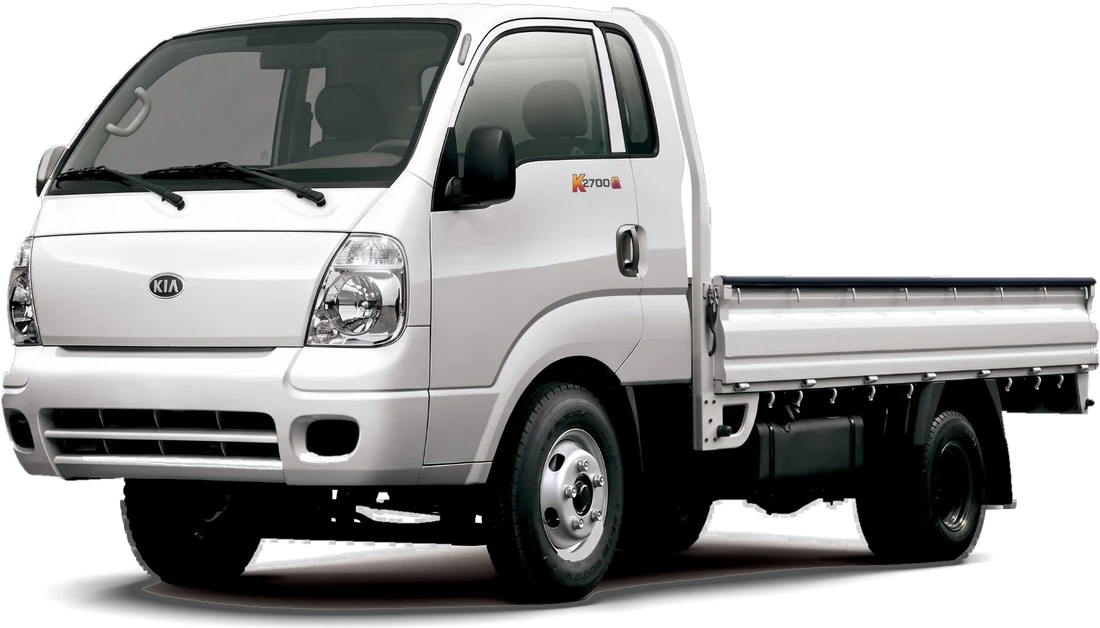
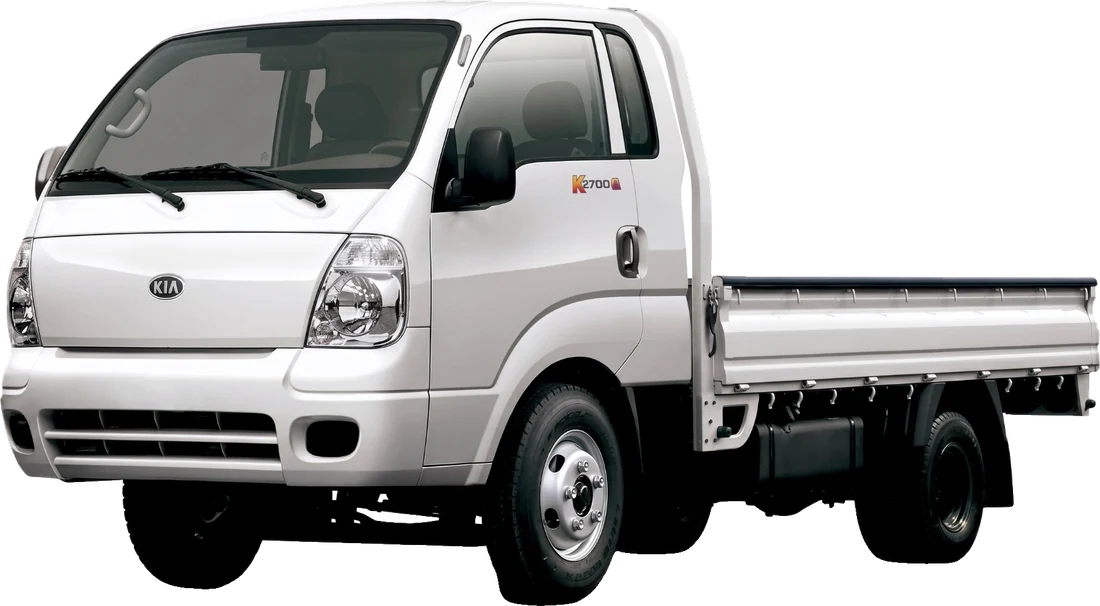
fix(vehicles): lab vehicles re-cut without baked floor shadows, sized by height so they rise out of the card beside the code (smaller code for long vehicles), soft fading ground shadow, cut-bottom photos tucked behind the spec strip

diff --git a/src/components/vehicles/VehicleLab.tsx b/src/components/vehicles/VehicleLab.tsx
@@ -1,5 +1,5 @@
 /* eslint-disable i18next/no-literal-string */
-import React, { useMemo, useRef, useState } from 'react';
+import React, { useEffect, useMemo, useRef, useState } from 'react';
 import { Building2, CalendarDays, ChevronLeft, ChevronRight, ClipboardList, Fuel, LineChart, Loader2, RefreshCw, UserRound, Users } from 'lucide-react';
 import { useSyncedStorage } from '../../lib/useSyncedStorage';
 import {
@@ -82,7 +82,10 @@ const GLASS_BOTTOM = 11.28;
 const GLASS_HEIGHT = 71.27;
 
 /** حجم رقم العربة الكبير حسب طوله حتى لا يخرج من البطاقة */
-const codeSize = (code: string) => (code.length <= 3 ? 'text-[150px] sm:text-[250px]' : code.length === 4 ? 'text-[120px] sm:text-[200px]' : 'text-[96px] sm:text-[160px]');
+const codeSize = (code: string, wide: boolean) => (wide
+  // العربات الطويلة (براد قاطرة…) تحتاج عرضًا أكبر، فيصغر الرقم بجانبها
+  ? (code.length <= 3 ? 'text-[110px] sm:text-[170px]' : code.length === 4 ? 'text-[90px] sm:text-[140px]' : 'text-[76px] sm:text-[118px]')
+  : (code.length <= 3 ? 'text-[150px] sm:text-[250px]' : code.length === 4 ? 'text-[120px] sm:text-[200px]' : 'text-[96px] sm:text-[160px]'));
 
 /**
  * مختبر العربة: واجهة عرض للعربة (صورتها الكبيرة ورقمها وسجلها)، ثم سجل الآلية والاستهلاك عبر الزمن
@@ -102,6 +105,23 @@ export const VehicleLab: React.FC<{
   const code = (profile?.name || vehicle).trim();
   const reg = registry.find(r => r.id === code.toUpperCase()) || registry.find(r => r.id === vehicle.toUpperCase());
   const url = labImage(code, profile?.photo);
+  // نسبة عرض الصورة لارتفاعها (تُقرأ عند التحميل) لتحديد ارتفاع العربة دون أن تتجاوز عرض البطاقة
+  const [aspect, setAspect] = useState(1.6);
+  // العرض المتاح للعربة: عرض البطاقة ناقص الرقم الكبير، حتى تقف بجانبه ولا تغطيه
+  const stageRef = useRef<HTMLDivElement>(null);
+  const codeRef = useRef<HTMLDivElement>(null);
+  const [room, setRoom] = useState(0);
+  useEffect(() => {
+    const stage = stageRef.current, mark = codeRef.current;
+    if (!stage || !mark) return;
+    const measure = () => setRoom(Math.max(0, stage.clientWidth * 0.95 - mark.offsetWidth - 56));
+    measure();
+    const ro = new ResizeObserver(measure);
+    ro.observe(stage); ro.observe(mark);
+    return () => ro.disconnect();
+  }, []);
+  // صور قُصّت أسفل عجلاتها في الأصل: تُنزل خلف شريط المواصفات حتى لا يظهر القص
+  const cutBottom = /\/lab\/at\.webp$/.test(url);
 
   const [range, setRange] = useState<Range>('month');
   const [importing, setImporting] = useState<string | null>(null);
@@ -233,11 +253,11 @@ export const VehicleLab: React.FC<{
 
       {/* ١. واجهة العربة */}
       <section aria-label="العربة" className="va-rise relative mt-4 rounded-[28px] bg-[#E9ECF1] dark:bg-[#0F1830]" style={{ animationDelay: '.05s' }}>
-        <div className="relative h-[300px] sm:h-[400px] rounded-t-[28px]">
-          <div className="absolute top-8 sm:top-[46px] right-5 sm:right-10 text-right">
+        <div ref={stageRef} className="relative h-[300px] sm:h-[400px] rounded-t-[28px]">
+          <div ref={codeRef} className="absolute top-8 sm:top-[46px] right-5 sm:right-10 text-right">
             <div className="text-[13px] font-bold tracking-[.04em] text-[#5B6577] dark:text-[#8090B0]">{typeLabel}</div>
             <div
-              className={`lab-code font-black leading-[.86] tracking-[-.03em] ${codeSize(profile?.name || vehicle)}`}
+              className={`lab-code font-black leading-[.86] tracking-[-.03em] ${codeSize(profile?.name || vehicle, aspect > 1.45)}`}
               style={{ fontFamily: '"Inter Variable", "Noto Kufi Arabic Variable", sans-serif' }}
               dir="ltr"
             >{profile?.name || vehicle}</div>
@@ -247,15 +267,22 @@ export const VehicleLab: React.FC<{
               </div>
             )}
           </div>
-          <span aria-hidden className="absolute left-[13%] bottom-4 w-[min(560px,60%)] h-[34px] rounded-[50%] bg-[radial-gradient(closest-side,rgba(11,18,32,.3),rgba(11,18,32,0))] dark:bg-[radial-gradient(closest-side,rgba(0,0,0,.6),rgba(0,0,0,0))]" />
-          <img
+          {/* العربة بارتفاع ثابت فتخرج من حافة البطاقة العليا، وعرضها يتبع نسبة صورتها؛ تحتها ظل ناعم متلاشٍ */}
+          <div
             key={url}
-            src={url}
-            alt={`صورة العربة ${code}`}
-            className="lab-truck absolute left-[4%] sm:left-[11%] bottom-5 w-[min(580px,60%)] max-h-[440px] sm:max-h-[470px] object-contain object-bottom drop-shadow-[0_24px_24px_rgba(11,18,32,.18)]"
-          />
+            className={`lab-truck absolute z-[1] left-[3%] sm:left-[4%] ${cutBottom ? '-bottom-3' : 'bottom-5'}`}
+            style={{ '--ar': aspect, '--room': `${room || 700}px` } as React.CSSProperties}
+          >
+            {!cutBottom && <span aria-hidden className="absolute -inset-x-[6%] -bottom-4 h-12 rounded-[50%] bg-[radial-gradient(closest-side,rgba(11,18,32,.34),rgba(11,18,32,.12)_55%,rgba(11,18,32,0))] dark:bg-[radial-gradient(closest-side,rgba(0,0,0,.7),rgba(0,0,0,.25)_55%,rgba(0,0,0,0))] blur-[6px]" />}
+            <img
+              src={url}
+              alt={`صورة العربة ${code}`}
+              onLoad={e => { const im = e.currentTarget; if (im.naturalWidth && im.naturalHeight) setAspect(im.naturalWidth / im.naturalHeight); }}
+              className="relative block w-auto max-w-none h-[min(250px,calc(82vw/var(--ar)))] sm:h-[min(450px,calc(var(--room)/var(--ar)))] drop-shadow-[0_18px_18px_rgba(11,18,32,.16)]"
+            />
+          </div>
           {siblings.length > 1 && onSwitch && (
-            <div className="absolute top-5 left-5 sm:top-auto sm:left-auto sm:bottom-[30px] sm:right-10 flex items-center gap-2.5">
+            <div className="absolute z-[2] top-5 left-5 sm:top-auto sm:left-auto sm:bottom-[30px] sm:right-10 flex items-center gap-2.5">
               <button type="button" aria-label="العربة السابقة" onClick={() => go(-1)} className="w-11 h-11 rounded-[14px] bg-white/60 dark:bg-white/[0.06] text-[#3B4556] dark:text-[#B6C2DC] hover:bg-white hover:text-[#0B1220] dark:hover:bg-white/[0.12] dark:hover:text-white transition-colors cursor-pointer inline-flex items-center justify-center"><ChevronRight className="w-[18px] h-[18px]" /></button>
               <span className="font-mono text-xs font-semibold text-[#5B6577] dark:text-[#8090B0]"><bdi className="text-[#0B1220] dark:text-white">{pos + 1}</bdi> — {siblings.length}</span>
               <button type="button" aria-label="العربة التالية" onClick={() => go(1)} className="w-11 h-11 rounded-[14px] bg-white/60 dark:bg-white/[0.06] text-[#3B4556] dark:text-[#B6C2DC] hover:bg-white hover:text-[#0B1220] dark:hover:bg-white/[0.12] dark:hover:text-white transition-colors cursor-pointer inline-flex items-center justify-center"><ChevronLeft className="w-[18px] h-[18px]" /></button>
@@ -263,7 +290,7 @@ export const VehicleLab: React.FC<{
           )}
         </div>
         {/* شريط المواصفات */}
-        <div className="grid grid-cols-1 sm:grid-cols-3 gap-[3px] rounded-b-[28px] overflow-hidden">
+        <div className="relative z-[3] grid grid-cols-1 sm:grid-cols-3 gap-[3px] rounded-b-[28px] overflow-hidden">
           <div className="bg-white dark:bg-[#0C1224] px-[22px] py-4"><div className="text-[11.5px] font-semibold text-[#5B6577] dark:text-[#8090B0]">النوع</div><div className="mt-1 text-base font-bold">{typeLabel}</div></div>
           <div className="bg-white dark:bg-[#0C1224] px-[22px] py-4"><div className="text-[11.5px] font-semibold text-[#5B6577] dark:text-[#8090B0]">رقم الآلية</div><div className="mt-1 font-mono text-base font-semibold" dir="ltr" style={{ textAlign: 'right' }}>{reg?.plate || '—'}</div></div>
           <div className="bg-[#1C2F5E] text-white px-[22px] py-4"><div className="text-[11.5px] font-semibold text-[#B6C2DC]">آخر تفويلة</div><div className="mt-1 text-base font-bold">{lastDate ? <><bdi className="font-mono">{fmt(dayTotal)}</bdi> لتر · <bdi className="font-mono">{short(lastDate)}</bdi></> : '—'}</div></div>
